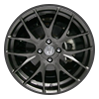
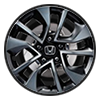
refactor(crz): finalize crz slices

diff --git a/js/variables.js b/js/variables.js
@@ -643,77 +643,77 @@ var adjustment = {
 		'offset' : {
 			'color' : {
 				// one here represent side ID, same adjustments for same side, same type
-				'1' : { 'x' : 20, 'y' : 110 },
-				'2' : { 'x' : 20, 'y' : 110 },
-				'3' : { 'x' : 20, 'y' : 110 },
-				'4' : { 'x' : 20, 'y' : 90 },
-				'5' : { 'x' : 20, 'y' : 110 },
-				'6' : { 'x' : 20, 'y' : 90 },
-				'7' : { 'x' : 20, 'y' : 110 },
-				'8' : { 'x' : 20, 'y' : 110 }
+				'1' : { 'x' : -30, 'y' : 40 },
+				'2' : { 'x' : -30, 'y' : 40 },
+				'3' : { 'x' : -30, 'y' : 40 },
+				'4' : { 'x' : -30, 'y' : 40 },
+				'5' : { 'x' : -30, 'y' : 40 },
+				'6' : { 'x' : -30, 'y' : 40 },
+				'7' : { 'x' : -30, 'y' : 40 },
+				'8' : { 'x' : -30, 'y' : 40 }
 			},
 			'tint' : {
 				// one here represent side ID, same adjustments for same side, same type
-				'1' : { 'x' : 20, 'y' : 110 },
-				'2' : { 'x' : 20, 'y' : 110 },
-				'3' : { 'x' : 20, 'y' : 110 },
-				'4' : { 'x' : 20, 'y' : 90 },
-				'5' : { 'x' : 20, 'y' : 110 },
-				'6' : { 'x' : 20, 'y' : 90 },
-				'7' : { 'x' : 20, 'y' : 110 },
-				'8' : { 'x' : 20, 'y' : 110 }
+				'1' : { 'x' : -30, 'y' : 40 },
+				'2' : { 'x' : -30, 'y' : 40 },
+				'3' : { 'x' : -30, 'y' : 40 },
+				'4' : { 'x' : -30, 'y' : 40 },
+				'5' : { 'x' : -30, 'y' : 40 },
+				'6' : { 'x' : -30, 'y' : 40 },
+				'7' : { 'x' : -30, 'y' : 40 },
+				'8' : { 'x' : -30, 'y' : 40 }
 			},
 			'decal' : {
-				'1' : { 'x' : 20, 'y' : 110 },
-				'2' : { 'x' : 20, 'y' : 110 },
-				'3' : { 'x' : 20, 'y' : 110 },
-				'4' : { 'x' : 20, 'y' : 90 },
-				'5' : { 'x' : 20, 'y' : 110 },
-				'6' : { 'x' : 20, 'y' : 90 },
-				'7' : { 'x' : 20, 'y' : 110 },
-				'8' : { 'x' : 20, 'y' : 110 }
+				'1' : { 'x' : -30, 'y' : 40 },
+				'2' : { 'x' : -30, 'y' : 40 },
+				'3' : { 'x' : -30, 'y' : 40 },
+				'4' : { 'x' : -30, 'y' : 40 },
+				'5' : { 'x' : -30, 'y' : 40 },
+				'6' : { 'x' : -30, 'y' : 40 },
+				'7' : { 'x' : -30, 'y' : 40 },
+				'8' : { 'x' : -30, 'y' : 40 }
 			},
 			'rims' : {
 				// one here represent side ID, same adjustments for same side, same type
-				'1' : { 'x' : 20, 'y' : 110 },
-				'2' : { 'x' : 20, 'y' : 110 },
-				'3' : { 'x' : 20, 'y' : 110 },
-				'4' : { 'x' : 20, 'y' : 90 },
-				'5' : { 'x' : 20, 'y' : 110 },
-				'6' : { 'x' : 20, 'y' : 90 },
-				'7' : { 'x' : 20, 'y' : 110 },
-				'8' : { 'x' : 20, 'y' : 110 }
+				'1' : { 'x' : -30, 'y' : 40 },
+				'2' : { 'x' : -30, 'y' : 40 },
+				'3' : { 'x' : -30, 'y' : 40 },
+				'4' : { 'x' : -30, 'y' : 40 },
+				'5' : { 'x' : -30, 'y' : 40 },
+				'6' : { 'x' : -30, 'y' : 40 },
+				'7' : { 'x' : -30, 'y' : 40 },
+				'8' : { 'x' : -30, 'y' : 40 }
 			},
 			'grill' : {
 				// one here represent side ID, same adjustments for same side, same type
-				'1' : { 'x' : 20, 'y' : 110 },
-				'2' : { 'x' : 20, 'y' : 110 },
-				'3' : { 'x' : 20, 'y' : 110 },
-				'4' : { 'x' : 20, 'y' : 90 },
-				'5' : { 'x' : 20, 'y' : 110 },
-				'6' : { 'x' : 20, 'y' : 90 },
-				'7' : { 'x' : 20, 'y' : 110 },
-				'8' : { 'x' : 20, 'y' : 110 }
+				'1' : { 'x' : -30, 'y' : 40 },
+				'2' : { 'x' : -30, 'y' : 40 },
+				'3' : { 'x' : -30, 'y' : 40 },
+				'4' : { 'x' : -30, 'y' : 40 },
+				'5' : { 'x' : -30, 'y' : 40 },
+				'6' : { 'x' : -30, 'y' : 40 },
+				'7' : { 'x' : -30, 'y' : 40 },
+				'8' : { 'x' : -30, 'y' : 40 }
 			},
 			'skirt' : {
-				'1' : { 'x' : 20, 'y' : 110 },
-				'2' : { 'x' : 20, 'y' : 110 },
-				'3' : { 'x' : 20, 'y' : 110 },
-				'4' : { 'x' : 20, 'y' : 90 },
-				'5' : { 'x' : 20, 'y' : 110 },
-				'6' : { 'x' : 20, 'y' : 90 },
-				'7' : { 'x' : 20, 'y' : 110 },
-				'8' : { 'x' : 20, 'y' : 110 }
+				'1' : { 'x' : -30, 'y' : 40 },
+				'2' : { 'x' : -30, 'y' : 40 },
+				'3' : { 'x' : -30, 'y' : 40 },
+				'4' : { 'x' : -30, 'y' : 40 },
+				'5' : { 'x' : -30, 'y' : 40 },
+				'6' : { 'x' : -30, 'y' : 40 },
+				'7' : { 'x' : -30, 'y' : 40 },
+				'8' : { 'x' : -30, 'y' : 40 }
 			},
 			'spoiler' : {
-				'1' : { 'x' : 20, 'y' : 110 },
-				'2' : { 'x' : 20, 'y' : 110 },
-				'3' : { 'x' : 20, 'y' : 110 },
-				'4' : { 'x' : 20, 'y' : 90 },
-				'5' : { 'x' : 20, 'y' : 110 },
-				'6' : { 'x' : 20, 'y' : 90 },
-				'7' : { 'x' : 20, 'y' : 110 },
-				'8' : { 'x' : 20, 'y' : 110 }
+				'1' : { 'x' : -30, 'y' : 40 },
+				'2' : { 'x' : -30, 'y' : 40 },
+				'3' : { 'x' : -30, 'y' : 40 },
+				'4' : { 'x' : -30, 'y' : 40 },
+				'5' : { 'x' : -30, 'y' : 40 },
+				'6' : { 'x' : -30, 'y' : 40 },
+				'7' : { 'x' : -30, 'y' : 40 },
+				'8' : { 'x' : -30, 'y' : 40 }
 			}
 		},
 		// adjustment to dimensions
@@ -721,77 +721,77 @@ var adjustment = {
 			'color' : {
 				// one here represent side ID, same adjustments for same side, same type
 				// only need the width, height will be computed : img.height * adjusment / img.width
-				'1' : { 'width' : 823 },
-				'2' : { 'width' : 823 },
-				'3' : { 'width' : 823 },
-				'4' : { 'width' : 550 },
-				'5' : { 'width' : 823 },
-				'6' : { 'width' : 550 },
-				'7' : { 'width' : 823 },
-				'8' : { 'width' : 823 }
+				'1' : { 'width' : 663 },
+				'2' : { 'width' : 663 },
+				'3' : { 'width' : 663 },
+				'4' : { 'width' : 663 },
+				'5' : { 'width' : 663 },
+				'6' : { 'width' : 663 },
+				'7' : { 'width' : 663 },
+				'8' : { 'width' : 663 }
 			},
 			'tint' : {
 				// one here represent side ID, same adjustments for same side, same type
-				'1' : { 'width' : 823 },
-				'2' : { 'width' : 823 },
-				'3' : { 'width' : 823 },
-				'4' : { 'width' : 550 },
-				'5' : { 'width' : 823 },
-				'6' : { 'width' : 550 },
-				'7' : { 'width' : 823 },
-				'8' : { 'width' : 823 }
+				'1' : { 'width' : 663 },
+				'2' : { 'width' : 663 },
+				'3' : { 'width' : 663 },
+				'4' : { 'width' : 663 },
+				'5' : { 'width' : 663 },
+				'6' : { 'width' : 663 },
+				'7' : { 'width' : 663 },
+				'8' : { 'width' : 663 }
 			},
 			'decal' : {
-				'1' : { 'width' : 823 },
-				'2' : { 'width' : 823 },
-				'3' : { 'width' : 823 },
-				'4' : { 'width' : 550 },
-				'5' : { 'width' : 823 },
-				'6' : { 'width' : 550 },
-				'7' : { 'width' : 823 },
-				'8' : { 'width' : 823 }
+				'1' : { 'width' : 663 },
+				'2' : { 'width' : 663 },
+				'3' : { 'width' : 663 },
+				'4' : { 'width' : 663 },
+				'5' : { 'width' : 663 },
+				'6' : { 'width' : 663 },
+				'7' : { 'width' : 663 },
+				'8' : { 'width' : 663 }
 			},
 			'rims' : {
 				// one here represent side ID, same adjustments for same side, same type
-				'1' : { 'width' : 823 },
-				'2' : { 'width' : 823 },
-				'3' : { 'width' : 823 },
-				'4' : { 'width' : 550 },
-				'5' : { 'width' : 823 },
-				'6' : { 'width' : 550 },
-				'7' : { 'width' : 823 },
-				'8' : { 'width' : 823 }
+				'1' : { 'width' : 663 },
+				'2' : { 'width' : 663 },
+				'3' : { 'width' : 663 },
+				'4' : { 'width' : 663 },
+				'5' : { 'width' : 663 },
+				'6' : { 'width' : 663 },
+				'7' : { 'width' : 663 },
+				'8' : { 'width' : 663 }
 			},
 			'grill' : {
 				// one here represent side ID, same adjustments for same side, same type
-				'1' : { 'width' : 823 },
-				'2' : { 'width' : 823 },
-				'3' : { 'width' : 823 },
-				'4' : { 'width' : 550 },
-				'5' : { 'width' : 823 },
-				'6' : { 'width' : 550 },
-				'7' : { 'width' : 823 },
-				'8' : { 'width' : 823 }
+				'1' : { 'width' : 663 },
+				'2' : { 'width' : 663 },
+				'3' : { 'width' : 663 },
+				'4' : { 'width' : 663 },
+				'5' : { 'width' : 663 },
+				'6' : { 'width' : 663 },
+				'7' : { 'width' : 663 },
+				'8' : { 'width' : 663 }
 			},
 			'skirt' : {
-				'1' : { 'width' : 823 },
-				'2' : { 'width' : 823 },
-				'3' : { 'width' : 823 },
-				'4' : { 'width' : 550 },
-				'5' : { 'width' : 823 },
-				'6' : { 'width' : 550 },
-				'7' : { 'width' : 823 },
-				'8' : { 'width' : 823 }
+				'1' : { 'width' : 663 },
+				'2' : { 'width' : 663 },
+				'3' : { 'width' : 663 },
+				'4' : { 'width' : 663 },
+				'5' : { 'width' : 663 },
+				'6' : { 'width' : 663 },
+				'7' : { 'width' : 663 },
+				'8' : { 'width' : 663 }
 			},
 			'spoiler' : {
-				'1' : { 'width' : 823 },
-				'2' : { 'width' : 823 },
-				'3' : { 'width' : 823 },
-				'4' : { 'width' : 550 },
-				'5' : { 'width' : 823 },
-				'6' : { 'width' : 550 },
-				'7' : { 'width' : 823 },
-				'8' : { 'width' : 823 }
+				'1' : { 'width' : 663 },
+				'2' : { 'width' : 663 },
+				'3' : { 'width' : 663 },
+				'4' : { 'width' : 663 },
+				'5' : { 'width' : 663 },
+				'6' : { 'width' : 663 },
+				'7' : { 'width' : 663 },
+				'8' : { 'width' : 663 }
 			}
 		}
 	},
